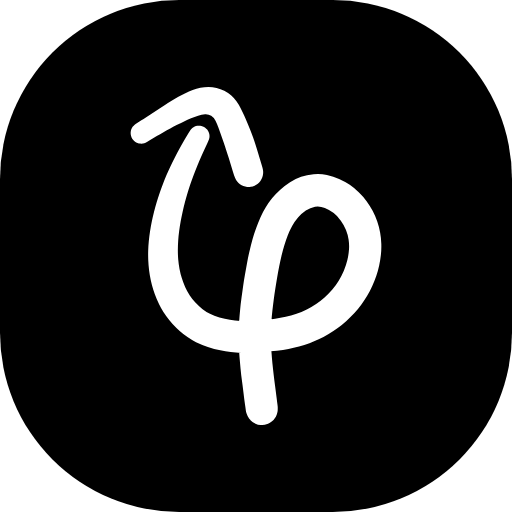
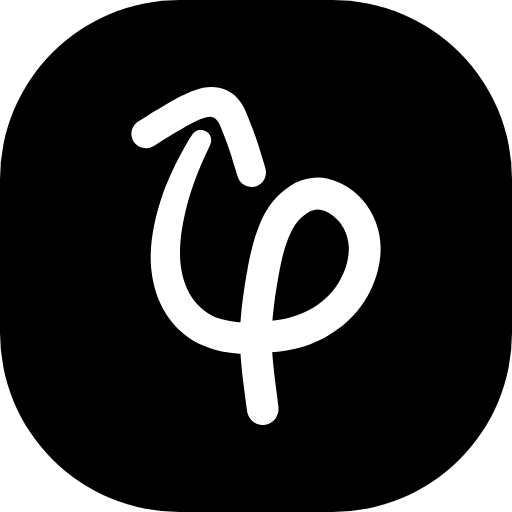
Give both arrowhead arms the right arm's thickness
The left arm of the arrowhead was thinner than the right one: before the
mark's +4 overall weight it grew from 18 units at its end to about 24 at
the tip, while the right arm is about 26.3 (22-28 vs 30.3 in the final
mark). The whole arrowhead now has the right arm's width (26.3, its
median away from the tip and the end), so both arms are one even line.

The thicker left side of the tip would have narrowed the gap to the arm
from 9.3 to 7.0 units, so the arrowhead moves 4.1 units further along
the arm's top direction and the gap stays 9.3. The arrowhead's right end
is 21.7 units from the p's bowl (was 20.7). The mark is now 260.1 x 352.6.

- tools/logo/source/updraw-mark.svg: the mark with the even arrowhead.
- Regenerated with logo:generate: bare marks, README badge, website and
  app favicons, PNG/ICO icons, the website's inline mark (UPDRAW_LOGO_*)
  and both blog preview images.

Claude-Session: https://claude.ai/code/session_01RW5AhHTgeHcZ7A9YWxHuvs

diff --git a/apps/website/src/components/Landing/paths.ts b/apps/website/src/components/Landing/paths.ts
@@ -4,9 +4,9 @@
 // tools/logo/source/updraw-mark.svg). Draw it filled, and stroked in the same colour UPDRAW_LOGO_STROKE_WIDTH wide
 // with round joins (0 for the current mark), in UPDRAW_LOGO_VIEWBOX.
 export const UPDRAW_LOGO_PATH =
-  "M5.1,37.99 Q11.88,33.78 15.24,31.64 T21.92,27.28 28.58,22.85 35.3,18.46 42.12,14.18 49.09,10.11 56.28,6.35 63.81,3.11 71.76,0.83 80.04,0 88.37,0.92 96.29,3.76 103.24,8.49 108.83,14.7 113.13,21.74 116.64,29.06 119.86,36.44 122.93,43.89 125.78,51.43 128.37,59.06 130.76,66.74 133.07,74.41 135.02,80.85 136.12,85.38 136.22,89.26 135.33,93.07 133.47,96.53 130.77,99.39 127.44,101.46 123.68,102.59 119.76,102.71 115.94,101.82 112.47,99.96 109.59,97.24 107.34,93.3 105.2,87.05 102.87,79.36 100.5,71.74 98.06,64.15 95.52,56.59 92.89,49.05 90.24,41.58 87.29,34.6 82.86,29.53 76.53,27.98 69.37,29.41 62.11,32.15 54.9,35.39 47.78,38.89 40.73,42.58 33.76,46.41 26.89,50.41 20.06,54.58 15.35,57.27 12.65,58.07 9.82,58.17 7.05,57.53 4.53,56.19 2.45,54.24 0.96,51.81 0.15,49.09 0.05,46.26 0.69,43.49 2.03,40.97 3.87,38.97 ZM78.64,58.42 Q74.41,67.46 72.39,72.01 T68.48,81.15 64.83,90.39 61.47,99.74 58.44,109.2 55.75,118.76 53.42,128.4 51.47,138.12 49.93,147.9 48.91,157.72 48.54,167.56 48.94,177.37 50.26,187.07 52.6,196.54 56.03,205.63 60.66,214.11 66.57,221.7 73.65,228.21 81.59,233.29 91.33,236.95 102.02,239.39 113.05,240.54 125.33,240.45 137.45,239.55 148.68,238.31 159.51,236.38 170.65,233.2 181.65,228.48 191.16,222.81 199.44,216.38 207.24,208.5 214,199.19 219.29,188.86 222.9,178 224.57,167.22 224.16,156.83 221.49,147 216.17,137.49 208.87,129.67 199.78,124.44 189.66,123.11 180.2,127.09 172.14,134.3 166.09,143.02 161.64,152.53 158.1,162.71 155.17,173.47 152.76,184.54 150.68,195.87 148.83,207.14 147.19,218.54 145.77,230.17 144.76,241.5 144.3,252.22 144.36,262.73 144.9,273.39 145.83,284.33 147.07,295.58 148.56,307.47 150.15,319.89 151.15,327.72 151.25,331.88 150.23,336.96 147.6,341.54 143.65,345.05 138.79,347.11 133.52,347.5 128.4,346.2 123.97,343.34 120.68,339.2 118.89,334.23 118.78,328.96 120.35,323.92 123.45,319.65 127.76,316.59 132.81,315.07 138.1,315.24 143.04,317.09 147.15,320.42 149.97,324.88 151.21,330.01 150.76,335.28 148.64,340.12 145.09,344.03 140.48,346.6 135.28,347.57 130.05,346.83 125.34,344.45 121.62,340.69 119.33,336.1 118.57,333.55 117.69,327.01 116.02,314.21 114.45,301.87 113.07,289.94 111.99,277.95 111.31,265.93 111.16,253.88 111.57,241.64 112.6,229.05 114.06,216.52 115.74,204.41 117.64,192.59 119.82,180.5 122.42,168.08 125.35,156.64 129.05,145.16 133.57,133.82 138.82,123.84 145.62,114.25 153.9,105.54 163.95,97.97 175.36,92.33 188.2,89.63 201.9,90.45 214.4,94.49 225.36,100.62 234.86,108.41 242.68,117.37 248.88,127.28 253.57,138.12 256.59,149.71 257.82,161.39 257.4,172.61 255.62,183.59 252.62,194.33 248.51,204.7 243.43,214.5 237.35,223.76 230.17,232.51 221.93,240.58 212.99,247.81 203.64,254.05 194.01,259.24 183.91,263.55 173.18,266.97 162.35,269.45 150.42,271.27 137.79,272.53 125.53,273.32 113.85,273.46 102.94,272.6 92.18,270.84 79.38,267.29 67.25,262.44 58.44,257.22 50.43,250.88 43.14,243.74 36.71,235.8 31.26,227.17 26.8,218.01 23.3,208.45 20.71,198.61 18.99,188.6 18.12,178.49 18.04,168.35 18.68,158.24 19.95,148.21 21.75,138.28 24.01,128.45 26.69,118.73 29.76,109.13 33.2,99.67 37,90.34 41.14,81.16 45.6,72.15 50.33,63.27 55.26,54.52 59.25,47.72 61.54,44.16 63.46,42.16 65.88,40.69 68.59,39.9 71.41,39.82 74.17,40.48 76.66,41.84 78.71,43.79 80.19,46.21 80.99,48.93 81.03,51.84 79.76,55.85 Z";
+  "M7.04,35.92 Q13.82,31.7 17.23,29.59 T24.05,25.39 30.9,21.23 37.82,17.15 44.85,13.21 52,9.47 59.31,6 66.91,2.99 74.88,0.85 83.14,0 91.46,0.76 99.44,3.33 106.59,7.72 112.46,13.69 116.93,20.68 120.4,28.09 123.42,35.57 126.31,43.06 129.09,50.61 131.69,58.22 134.13,65.87 136.47,73.53 138.76,81.14 140.21,86.83 140.32,90.71 139.42,94.52 137.57,97.96 134.89,100.82 131.56,102.9 127.81,104.03 123.89,104.14 120.07,103.24 116.62,101.39 113.76,98.71 111.69,95.36 109.92,90.38 107.8,83.39 105.48,75.75 103.08,68.16 100.5,60.64 97.75,53.17 94.88,45.76 91.84,38.68 87.71,33.11 81.73,31.07 74.74,32.51 67.64,35.53 60.62,39.11 53.69,42.96 46.82,46.99 39.99,51.13 33.19,55.33 26.36,59.57 21.16,62.49 17.45,63.6 13.53,63.72 9.71,62.83 6.26,60.98 3.4,58.3 1.33,54.97 0.2,51.21 0.08,47.29 0.98,43.48 2.83,40.04 5.39,37.26 ZM80.82,63.44 Q76.59,72.48 74.57,77.03 T70.66,86.17 67.01,95.41 63.65,104.76 60.62,114.22 57.93,123.78 55.6,133.42 53.65,143.14 52.11,152.92 51.09,162.74 50.72,172.58 51.12,182.39 52.44,192.09 54.78,201.56 58.21,210.65 62.84,219.13 68.75,226.72 75.83,233.23 83.77,238.31 93.51,241.97 104.21,244.41 115.24,245.56 127.51,245.47 139.63,244.57 150.86,243.33 161.69,241.4 172.83,238.22 183.83,233.5 193.34,227.83 201.62,221.4 209.42,213.52 216.18,204.21 221.47,193.88 225.08,183.02 226.76,172.24 226.35,161.86 223.68,152.03 218.36,142.51 211.05,134.69 201.96,129.46 191.84,128.13 182.38,132.11 174.32,139.32 168.27,148.04 163.82,157.55 160.28,167.73 157.35,178.49 154.94,189.56 152.86,200.89 151.01,212.16 149.37,223.56 147.95,235.19 146.94,246.52 146.48,257.24 146.54,267.75 147.08,278.41 148.01,289.35 149.25,300.6 150.74,312.49 152.33,324.91 153.33,332.74 153.43,336.9 152.41,341.98 149.78,346.56 145.83,350.07 140.97,352.13 135.7,352.52 130.58,351.22 126.15,348.36 122.86,344.22 121.07,339.25 120.95,333.98 122.53,328.94 125.63,324.67 129.94,321.61 134.99,320.09 140.28,320.26 145.23,322.11 149.34,325.44 152.16,329.9 153.4,335.03 152.95,340.3 150.82,345.14 147.27,349.05 142.66,351.62 137.46,352.59 132.23,351.85 127.52,349.47 123.8,345.71 121.51,341.12 120.75,338.57 119.87,332.03 118.2,319.23 116.63,306.89 115.25,294.96 114.17,282.97 113.49,270.95 113.34,258.9 113.75,246.66 114.78,234.07 116.24,221.54 117.92,209.43 119.82,197.61 122,185.52 124.6,173.1 127.53,161.66 131.23,150.18 135.75,138.84 141,128.86 147.8,119.27 156.08,110.56 166.13,102.99 177.54,97.35 190.38,94.65 204.08,95.47 216.58,99.51 227.54,105.64 237.04,113.43 244.86,122.39 251.06,132.3 255.76,143.14 258.78,154.73 260.01,166.41 259.59,177.63 257.81,188.61 254.81,199.35 250.7,209.72 245.61,219.52 239.53,228.78 232.35,237.53 224.11,245.6 215.17,252.83 205.82,259.07 196.19,264.26 186.09,268.57 175.36,271.99 164.53,274.47 152.6,276.29 139.97,277.55 127.71,278.34 116.03,278.48 105.12,277.62 94.36,275.86 81.57,272.31 69.43,267.46 60.62,262.24 52.61,255.9 45.32,248.76 38.89,240.82 33.44,232.19 28.98,223.03 25.48,213.47 22.89,203.63 21.17,193.62 20.3,183.51 20.22,173.37 20.86,163.26 22.13,153.23 23.93,143.3 26.19,133.47 28.87,123.75 31.94,114.15 35.38,104.69 39.18,95.36 43.32,86.18 47.78,77.17 52.51,68.29 57.44,59.54 61.43,52.74 63.72,49.18 65.64,47.18 68.06,45.71 70.77,44.92 73.59,44.84 76.35,45.5 78.84,46.86 80.89,48.81 82.37,51.23 83.17,53.95 83.21,56.86 81.94,60.87 Z";
 
-export const UPDRAW_LOGO_VIEWBOX = "0 0 257.86 347.57";
+export const UPDRAW_LOGO_VIEWBOX = "0 0 260.05 352.59";
 
 export const UPDRAW_LOGO_STROKE_WIDTH = 0;
 
